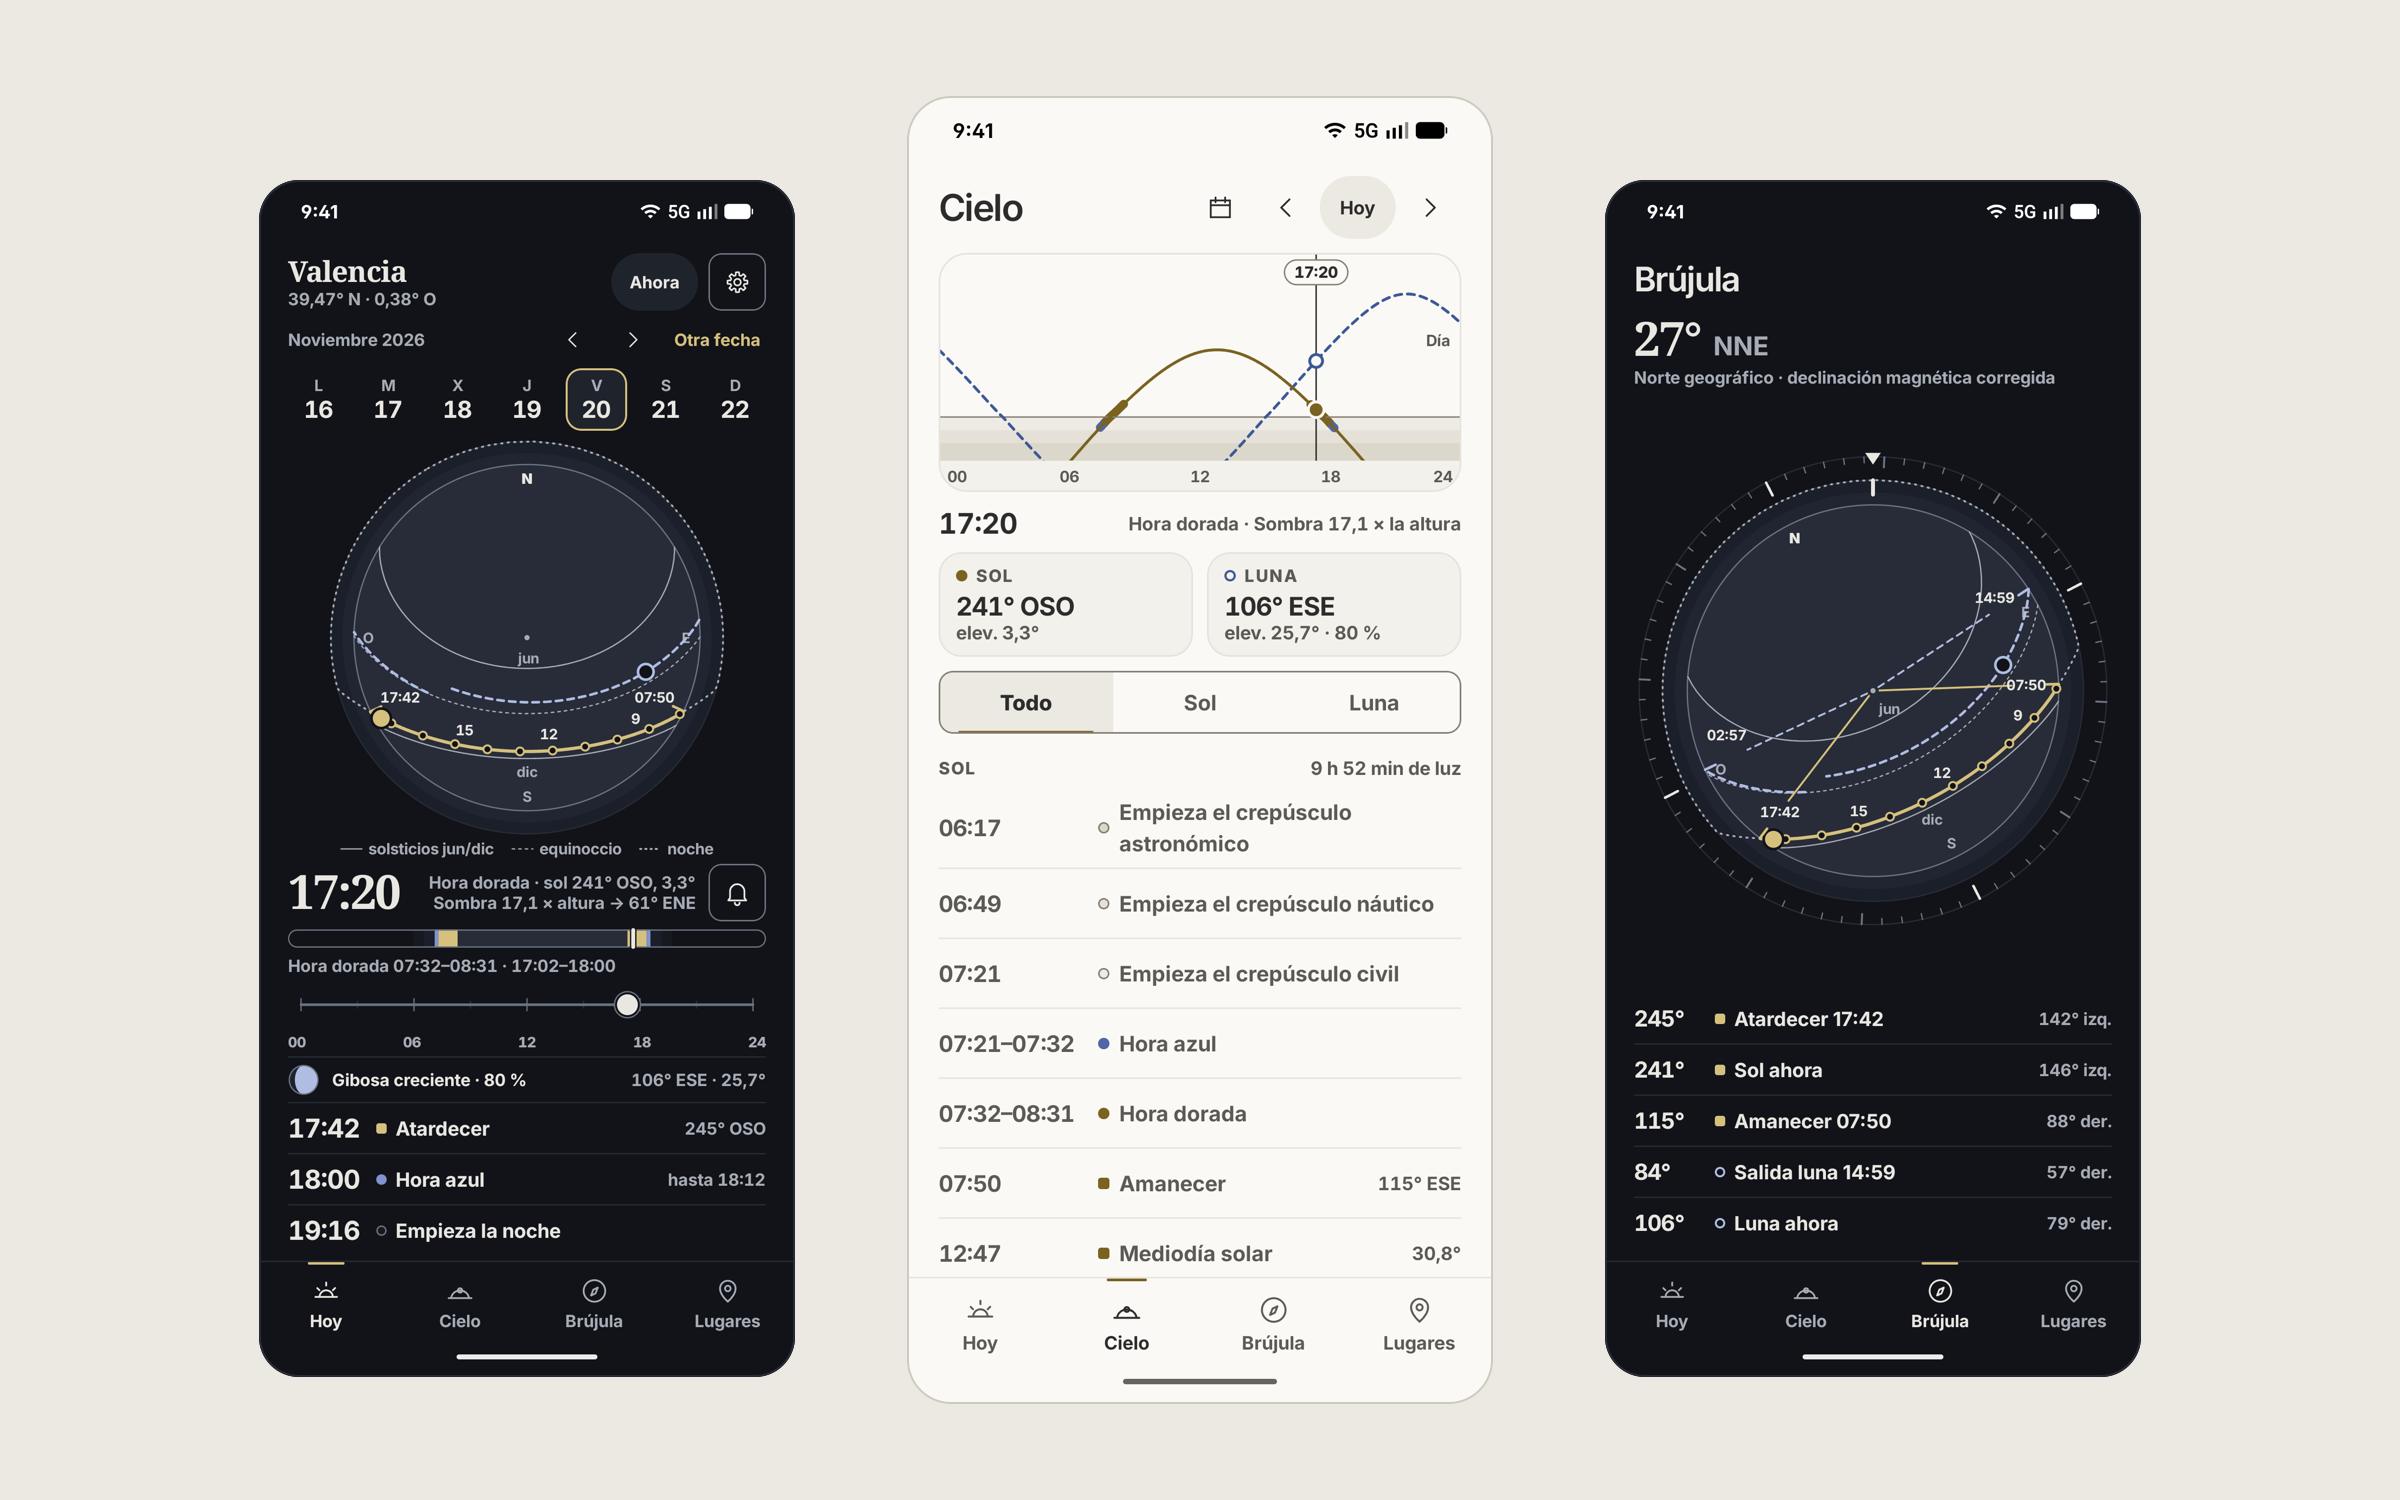
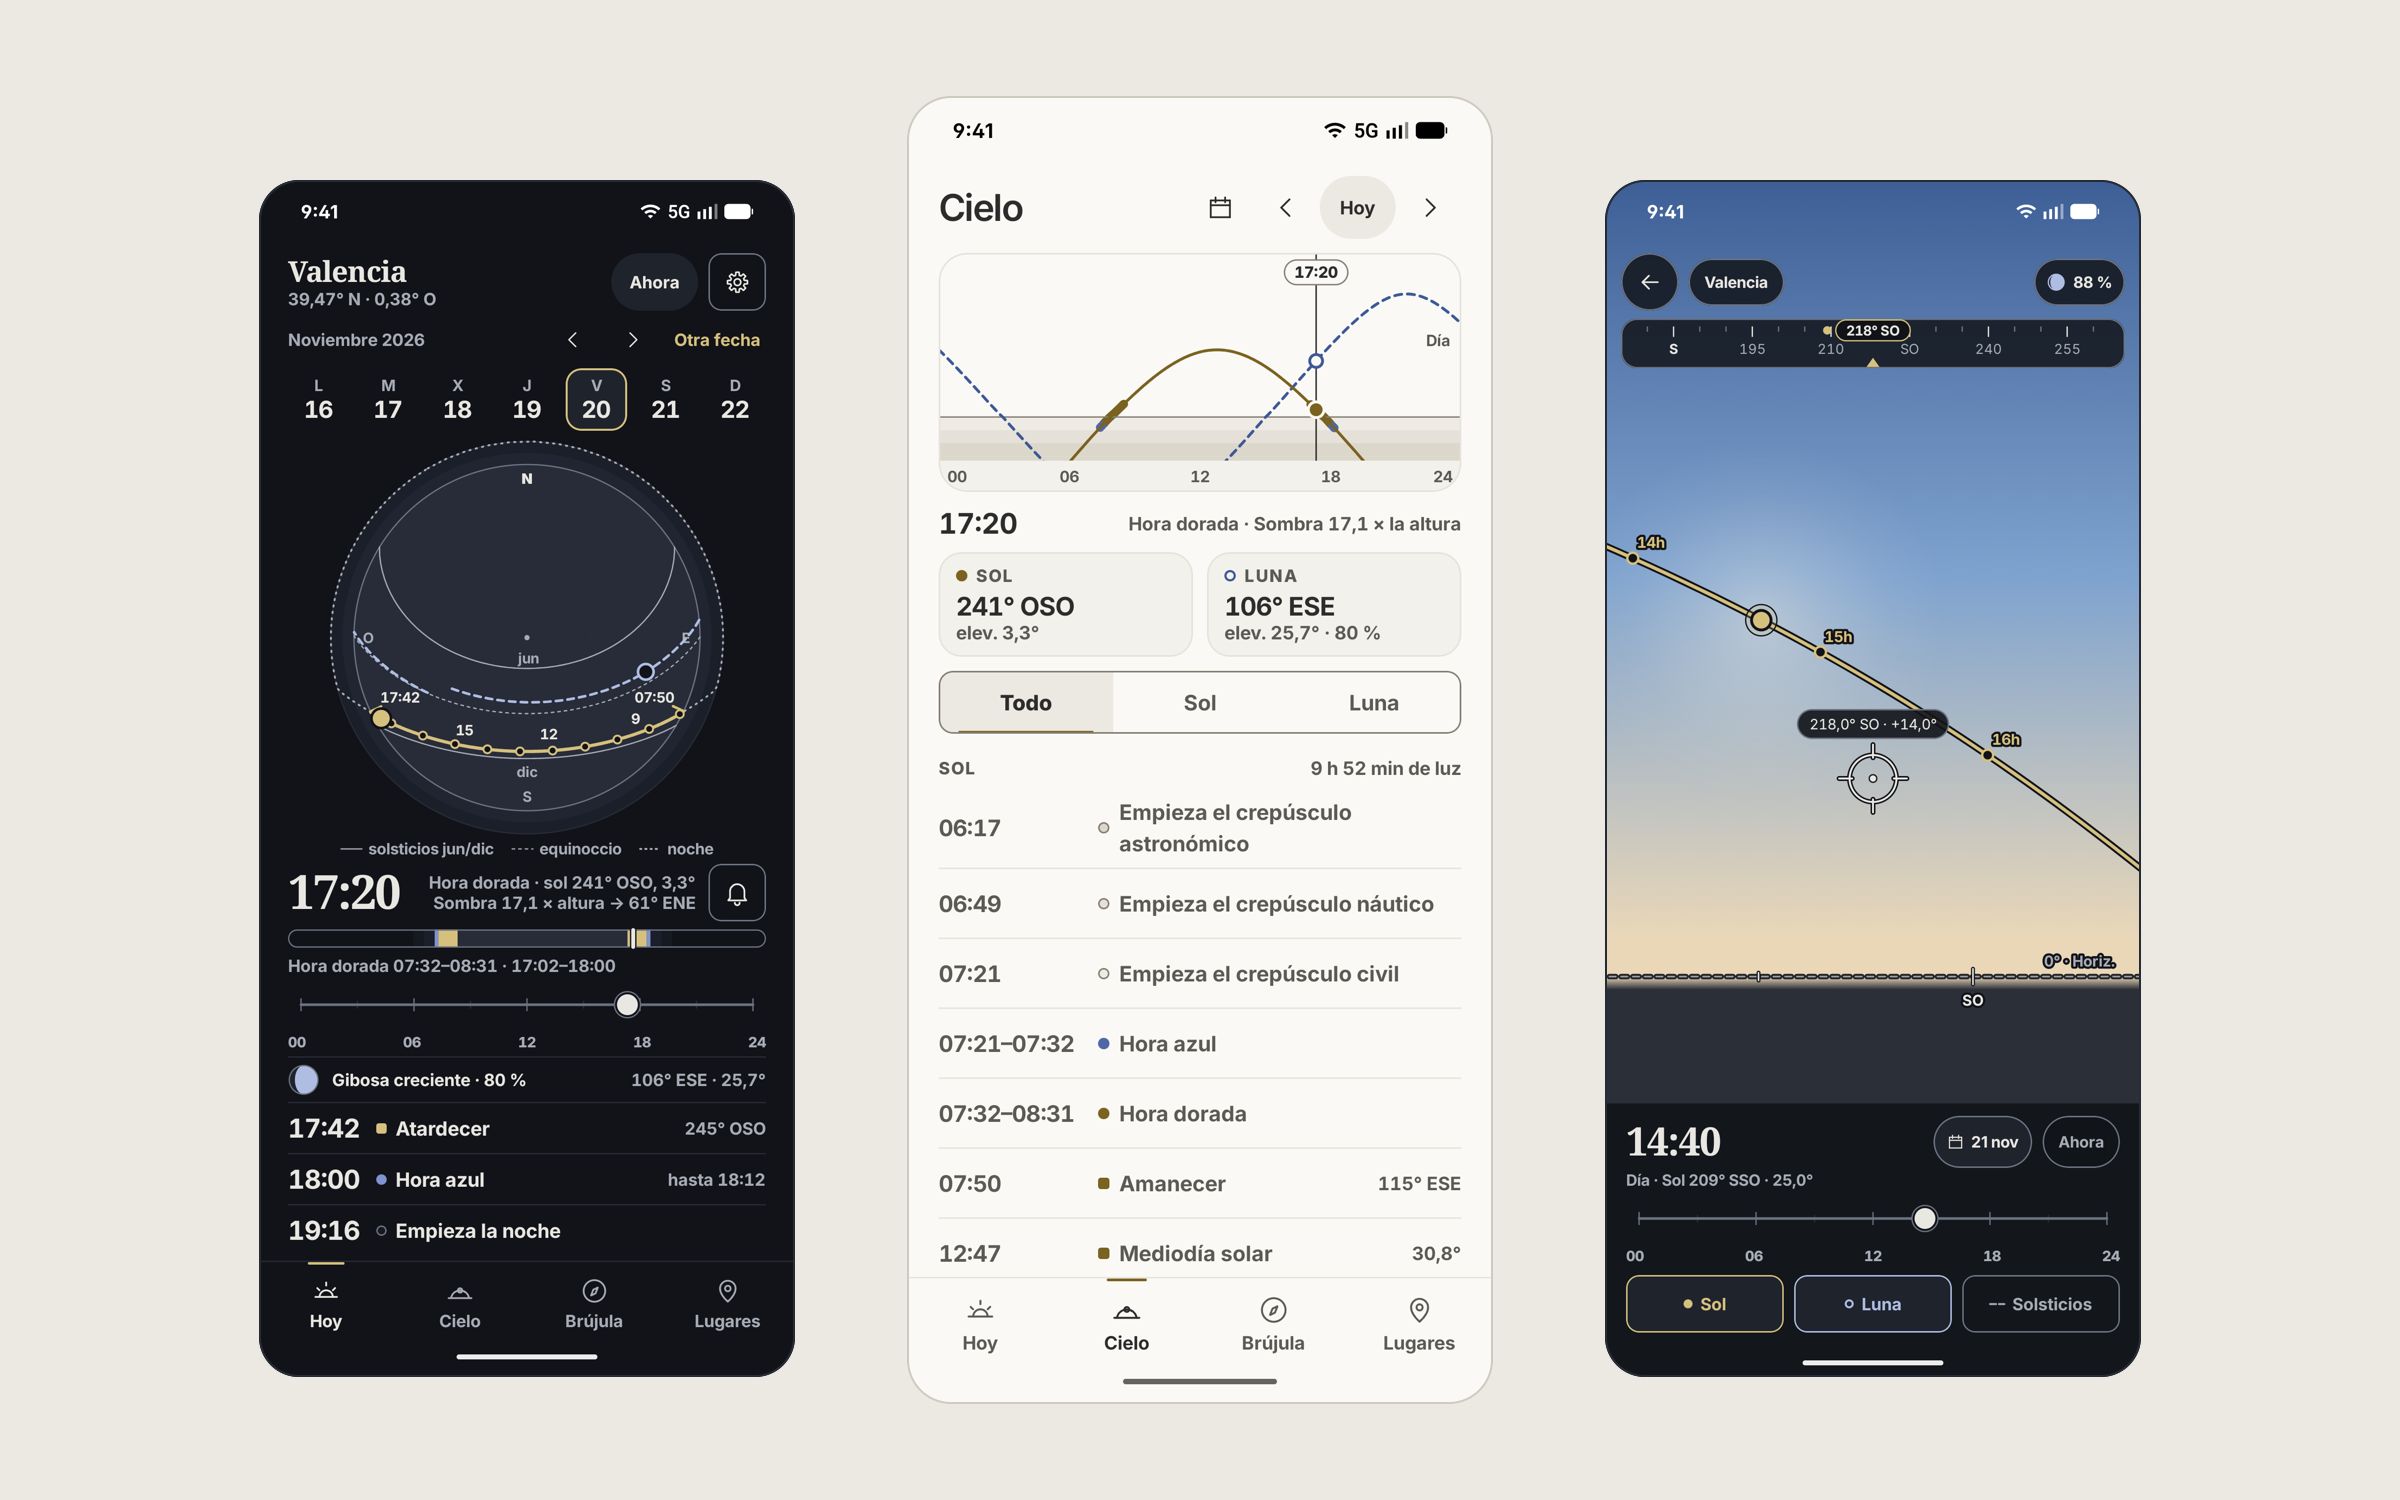
docs: add the camera view to the READMEs and showcase

Changed region(s): [[0.6562, 0.1227, 0.9062, 0.92]]

diff --git a/README.es.md b/README.es.md
@@ -23,11 +23,11 @@ Cada versión incluye un archivo `.sha256` y una atestación SLSA de procedencia
 | :---: | :---: | :---: | :---: |
 | ![Pantalla Hoy en tema oscuro](docs/screenshots/es/hoy-dark.png) | ![Pantalla Cielo en tema oscuro](docs/screenshots/es/cielo-dark.png) | ![Pantalla Brújula en tema oscuro](docs/screenshots/es/brujula-dark.png) | ![Pantalla Lugares en tema oscuro](docs/screenshots/es/lugares-dark.png) |
 
-| Hoy (claro) | Cielo (claro) | Ajustes |
-| :---: | :---: | :---: |
-| ![Pantalla Hoy en tema claro](docs/screenshots/es/hoy-light.png) | ![Pantalla Cielo en tema claro](docs/screenshots/es/cielo-light.png) | ![Pantalla Ajustes](docs/screenshots/es/ajustes-dark.png) |
+| Cámara | Hoy (claro) | Cielo (claro) | Ajustes |
+| :---: | :---: | :---: | :---: |
+| ![Vista de cámara con el recorrido del sol sobre el cielo](docs/screenshots/es/camara-dark.png) | ![Pantalla Hoy en tema claro](docs/screenshots/es/hoy-light.png) | ![Pantalla Cielo en tema claro](docs/screenshots/es/cielo-light.png) | ![Pantalla Ajustes](docs/screenshots/es/ajustes-dark.png) |
 
-*Capturas reales en un móvil, situadas en Valencia a las 17:20 durante la hora dorada.*
+*Capturas reales en un móvil, situadas en Valencia, a las 17:20 durante la hora dorada y a las 14:40 en la vista de cámara. En la captura de la cámara, la imagen en directo se sustituye por un cielo dibujado y la orientación del móvil está fijada; todo lo que aparece encima es la app tal como funciona.*
 
 ## Qué hace Cenit
 
@@ -100,17 +100,26 @@ El tema claro parte del papel cálido de Scrolless y el oscuro de la tinta de Se
 | `sun` | `#7A6220` | `#D6C07E` | Trayectoria solar, hora dorada y estado activo |
 | `moon` | `#3D5896` | `#AFBDE3` | Trayectoria lunar y horas de la luna |
 
-La lista completa de tokens y las comprobaciones de contraste WCAG están en [`design/system.md`](design/system.md). Los bocetos HTML están en [`design/`](design/), incluido el diseño elegido [`design/cenit-stage-1/02-cupula.html`](design/cenit-stage-1/02-cupula.html). Las imágenes de marca de [`docs/brand/`](docs/brand/) se generan con `node tools/brand/render.mjs`.
+La lista completa de tokens y las comprobaciones de contraste WCAG están en [`design/system.md`](design/system.md). Los bocetos HTML están en [`design/`](design/), incluidos los diseños elegidos [`design/cenit-stage-1/02-cupula.html`](design/cenit-stage-1/02-cupula.html) y, para la vista de cámara, [`design/cenit-stage-2/01-visor.html`](design/cenit-stage-2/01-visor.html). Las imágenes de marca de [`docs/brand/`](docs/brand/) se generan con `node tools/brand/render.mjs`.
 
 ## Estructura del proyecto
 
-- `core/` (`:core`): efemérides en Kotlin puro, proyección de la cúpula, datos de la gráfica de elevación, matemáticas de la brújula, búsqueda de eclipses, índice de ciudades, programación de avisos y formato de horas.
-- `app/` (`:app`): pantallas en Jetpack Compose, lectura del magnetómetro y `LocationManager`, persistencia local en JSON, notificaciones y ajustes.
+- `core/` (`:core`): efemérides en Kotlin puro, proyección de la cúpula, datos de la gráfica de elevación, matemáticas de la brújula, búsqueda de eclipses, índice de ciudades, programación de avisos, formato de horas y la proyección de la vista de cámara (`core/ar`: rotación del dispositivo, proyección, suavizado de la orientación y trayectorias del sol y la luna).
+- `app/` (`:app`): pantallas en Jetpack Compose, lectura del magnetómetro y `LocationManager`, la vista previa de CameraX y lo que se dibuja encima, persistencia local en JSON, notificaciones y ajustes.
 - `third_party/astronomy/` (`:astronomy`): fuente sin modificar de Astronomy Engine v2.1.19 con comprobación SHA-256 (`verifyVendoredSource`).
 - `tools/geonames/`: generador en Python y tests unitarios para la lista local de ciudades.
 - `tools/brand/`: plantillas SVG/HTML y script de renderizado en macOS para `docs/brand/`.
 - `scripts/`: `check-manifest.sh` (comprueba que no haya permiso `INTERNET` y que las copias estén desactivadas) y `test-check-manifest.sh`.
 - `design/`: sistema de diseño y bocetos HTML.
+
+## Hoja de ruta
+
+Cenit se construye por etapas, y cada una sale como una versión que ya se puede usar:
+
+1. Horarios, gráficas, la cúpula, la brújula, los lugares y los avisos (v0.1.0).
+2. Vista de cámara con las trayectorias del sol y la luna (v0.2.0).
+3. Sombras: hacia dónde caen y cuánto miden a lo largo del día.
+4. Mapa con las direcciones del sol y la luna. Es la única etapa que podría necesitar conexión.
 
 ## Compilación
 

diff --git a/README.md b/README.md
@@ -23,11 +23,11 @@ Each release includes a `.sha256` checksum and a GitHub SLSA build provenance at
 | :---: | :---: | :---: | :---: |
 | ![Today screen in dark theme](docs/screenshots/en/today-dark.png) | ![Sky screen in dark theme](docs/screenshots/en/sky-dark.png) | ![Compass screen in dark theme](docs/screenshots/en/compass-dark.png) | ![Places screen in dark theme](docs/screenshots/en/places-dark.png) |
 
-| Today (light) | Sky (light) | Settings |
-| :---: | :---: | :---: |
-| ![Today screen in light theme](docs/screenshots/en/today-light.png) | ![Sky screen in light theme](docs/screenshots/en/sky-light.png) | ![Settings screen](docs/screenshots/en/settings-dark.png) |
+| Camera | Today (light) | Sky (light) | Settings |
+| :---: | :---: | :---: | :---: |
+| ![Camera view with the sun path over the sky](docs/screenshots/en/camera-dark.png) | ![Today screen in light theme](docs/screenshots/en/today-light.png) | ![Sky screen in light theme](docs/screenshots/en/sky-light.png) | ![Settings screen](docs/screenshots/en/settings-dark.png) |
 
-*Real phone screenshots taken in Valencia at 17:20 during golden hour.*
+*Real phone screenshots in Valencia, at 17:20 during golden hour and at 14:40 in the camera view. In the camera screenshot the live camera image is replaced by a drawn sky and the phone's orientation is fixed; everything on top of it is the app as it runs.*
 
 ## What Cenit does
 
@@ -100,17 +100,26 @@ The light theme uses warm paper tones from Scrolless and the dark theme uses dee
 | `sun` | `#7A6220` | `#D6C07E` | Sun path, golden hour and active state |
 | `moon` | `#3D5896` | `#AFBDE3` | Moon path and lunar times |
 
-[`design/system.md`](design/system.md) lists all tokens and WCAG contrast checks. The HTML artboards are in [`design/`](design/), including the selected layout [`design/cenit-stage-1/02-cupula.html`](design/cenit-stage-1/02-cupula.html). Run `node tools/brand/render.mjs` to regenerate the brand assets in [`docs/brand/`](docs/brand/).
+[`design/system.md`](design/system.md) lists all tokens and WCAG contrast checks. The HTML artboards are in [`design/`](design/), including the selected layouts [`design/cenit-stage-1/02-cupula.html`](design/cenit-stage-1/02-cupula.html) and [`design/cenit-stage-2/01-visor.html`](design/cenit-stage-2/01-visor.html) for the camera view. Run `node tools/brand/render.mjs` to regenerate the brand assets in [`docs/brand/`](docs/brand/).
 
 ## Project structure
 
-- `core/` (`:core`): pure Kotlin ephemeris, sky dome projection, elevation chart data, compass math, eclipse search, city index, alert scheduling and time formatting.
-- `app/` (`:app`): Jetpack Compose screens, magnetometer and `LocationManager` integration, local JSON storage, notifications and settings.
+- `core/` (`:core`): pure Kotlin ephemeris, sky dome projection, elevation chart data, compass math, eclipse search, city index, alert scheduling, time formatting, and the camera view's projection (`core/ar`: device rotation, pinhole projection, rotation smoothing, sampled sun and moon paths).
+- `app/` (`:app`): Jetpack Compose screens, magnetometer and `LocationManager` integration, the CameraX preview and its overlay, local JSON storage, notifications and settings.
 - `third_party/astronomy/` (`:astronomy`): unmodified Astronomy Engine v2.1.19 source with a SHA-256 verification task (`verifyVendoredSource`).
 - `tools/geonames/`: Python generator and unit tests for the bundled city TSV.
 - `tools/brand/`: SVG/HTML templates and macOS render script for `docs/brand/`.
 - `scripts/`: `check-manifest.sh` (verifies zero `INTERNET` permission and backups disabled) and `test-check-manifest.sh`.
 - `design/`: design tokens and HTML artboards.
+
+## Roadmap
+
+Cenit is built in stages, and each one ships as a usable release:
+
+1. Times, charts, the sky dome, compass, places and alerts (v0.1.0).
+2. Camera view with the sun and moon paths (v0.2.0).
+3. Shadows: where and how long they fall through the day.
+4. Map with the sun and moon directions. This is the only stage that may need network access.
 
 ## Building
 
